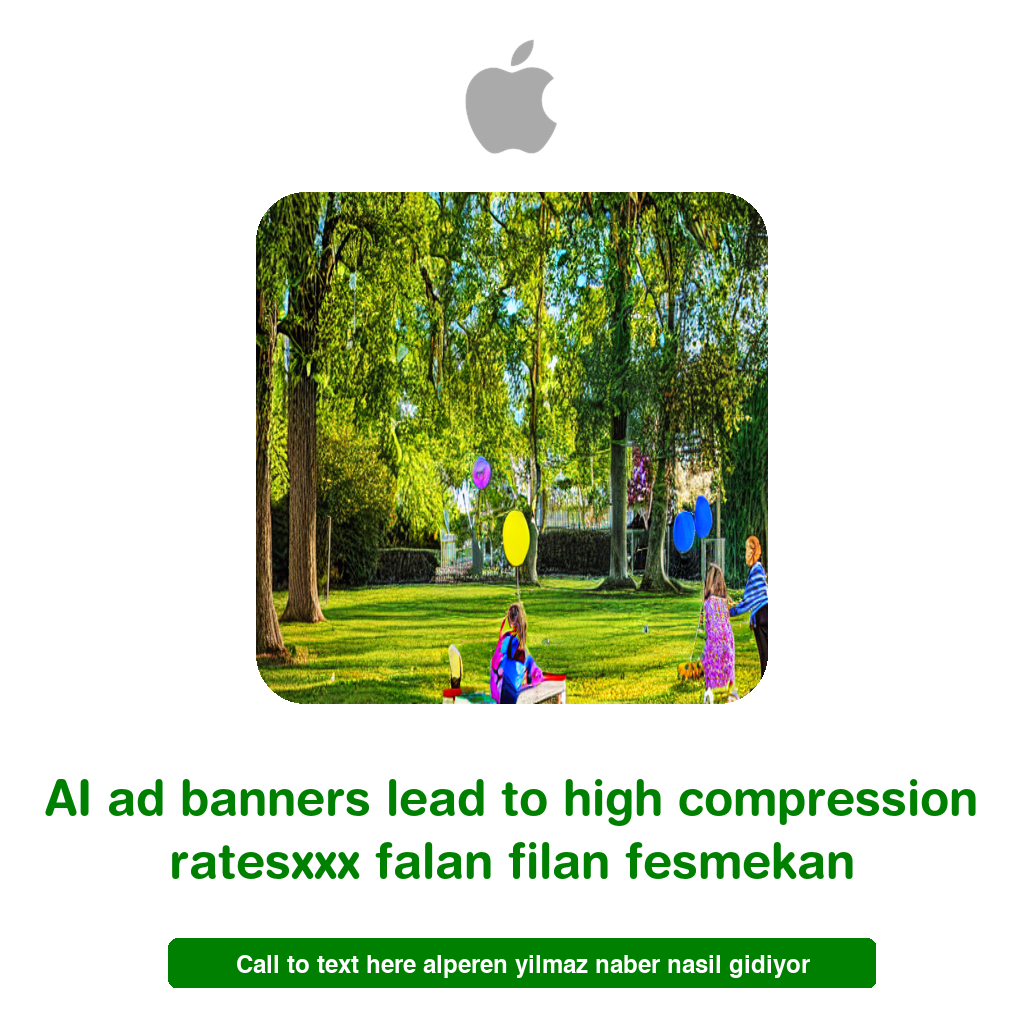
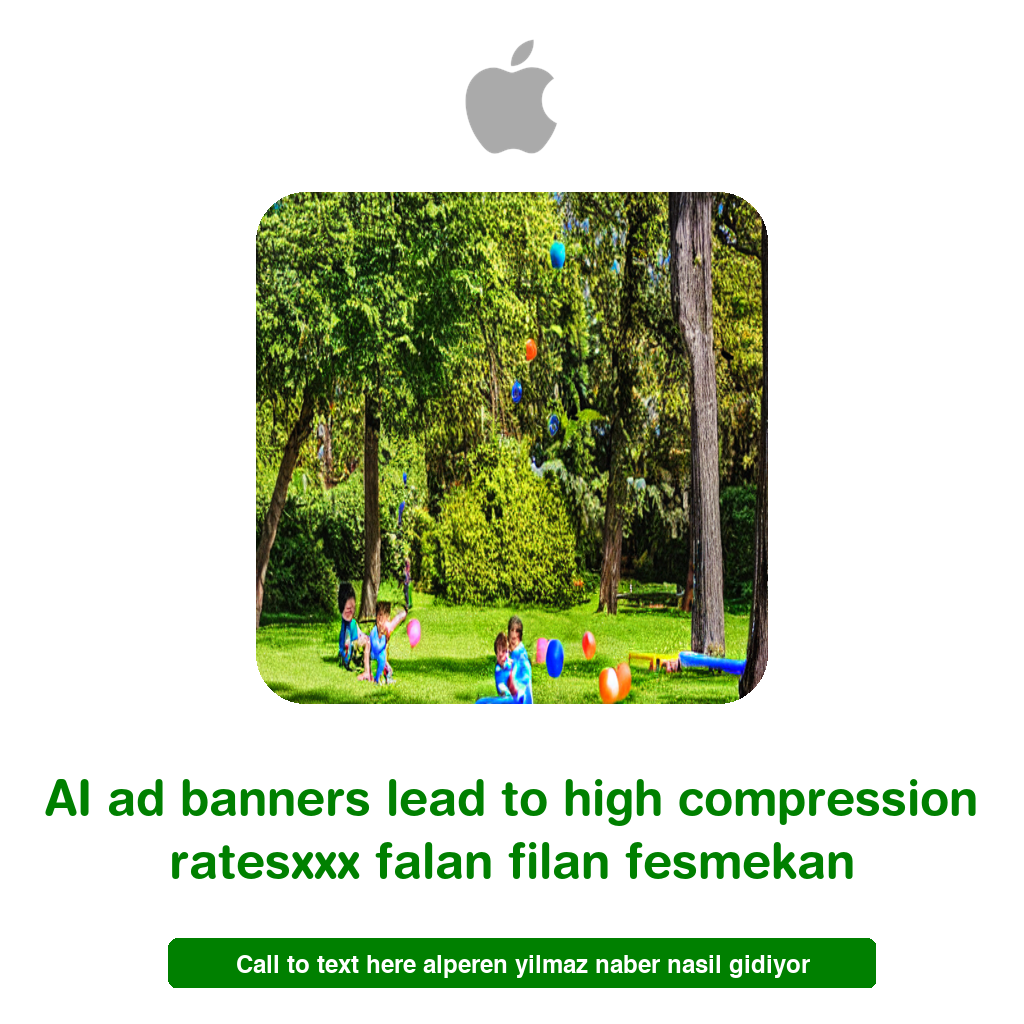
use safetensors and update model

Changed region(s): [[0.25, 0.1875, 0.75, 0.6875]]

diff --git a/main.py b/main.py
@@ -62,9 +62,9 @@ def generate_image(prompt, image):
     #model_id = "stabilityai/stable-diffusion-2-1-base"
 
     # set the pipeline
-    model_id = "CompVis/stable-diffusion-v1-4"
-    #model_id = "runwayml/stable-diffusion-v1-5"
-    pipe = StableDiffusionImg2ImgPipeline.from_pretrained(model_id)
+    #model_id = "CompVis/stable-diffusion-v1-4"
+    model_id = "runwayml/stable-diffusion-v1-5"
+    pipe = StableDiffusionImg2ImgPipeline.from_pretrained(model_id, use_safetensors=True)
     #pipe.save_pretrained("./stabilityai_cpu")
 
     # we use the DPM Solver as a scheduler for accelerating CPU process
